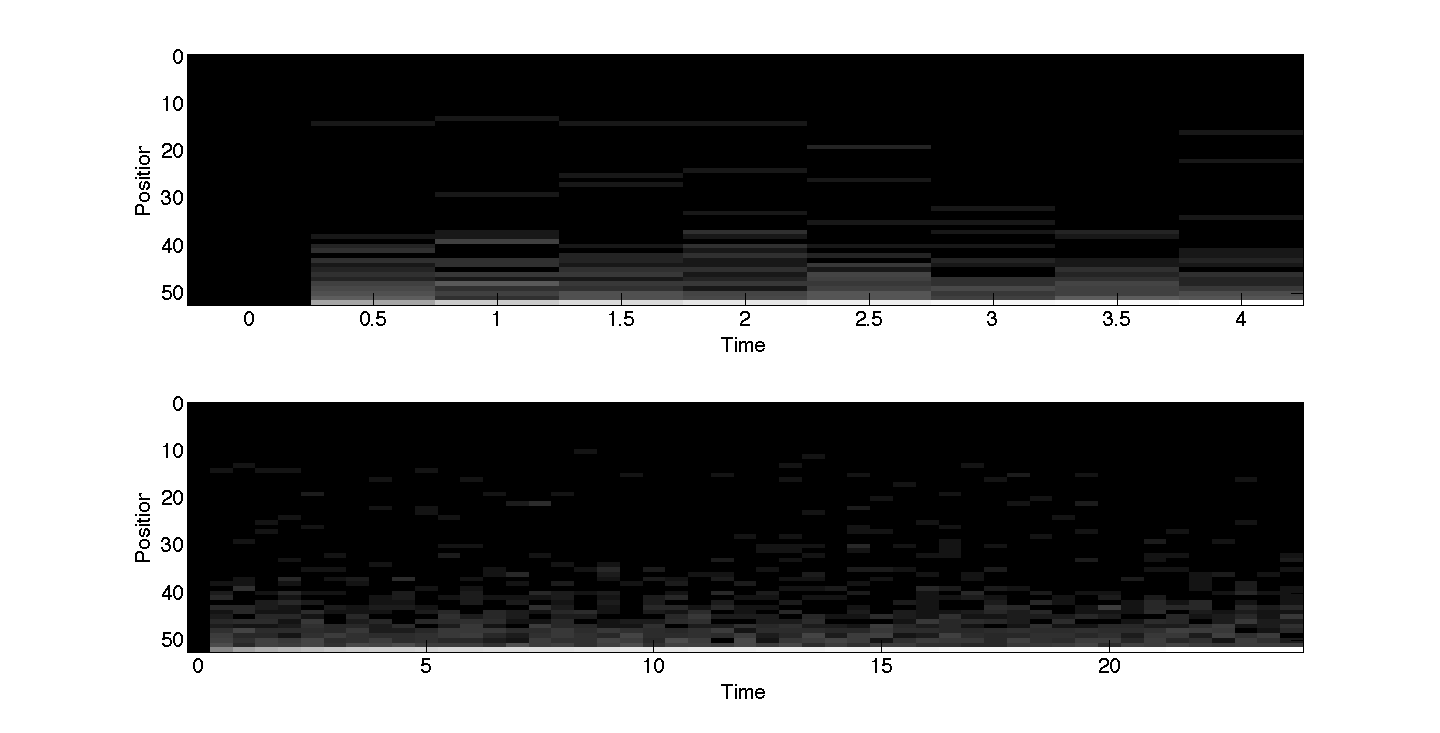
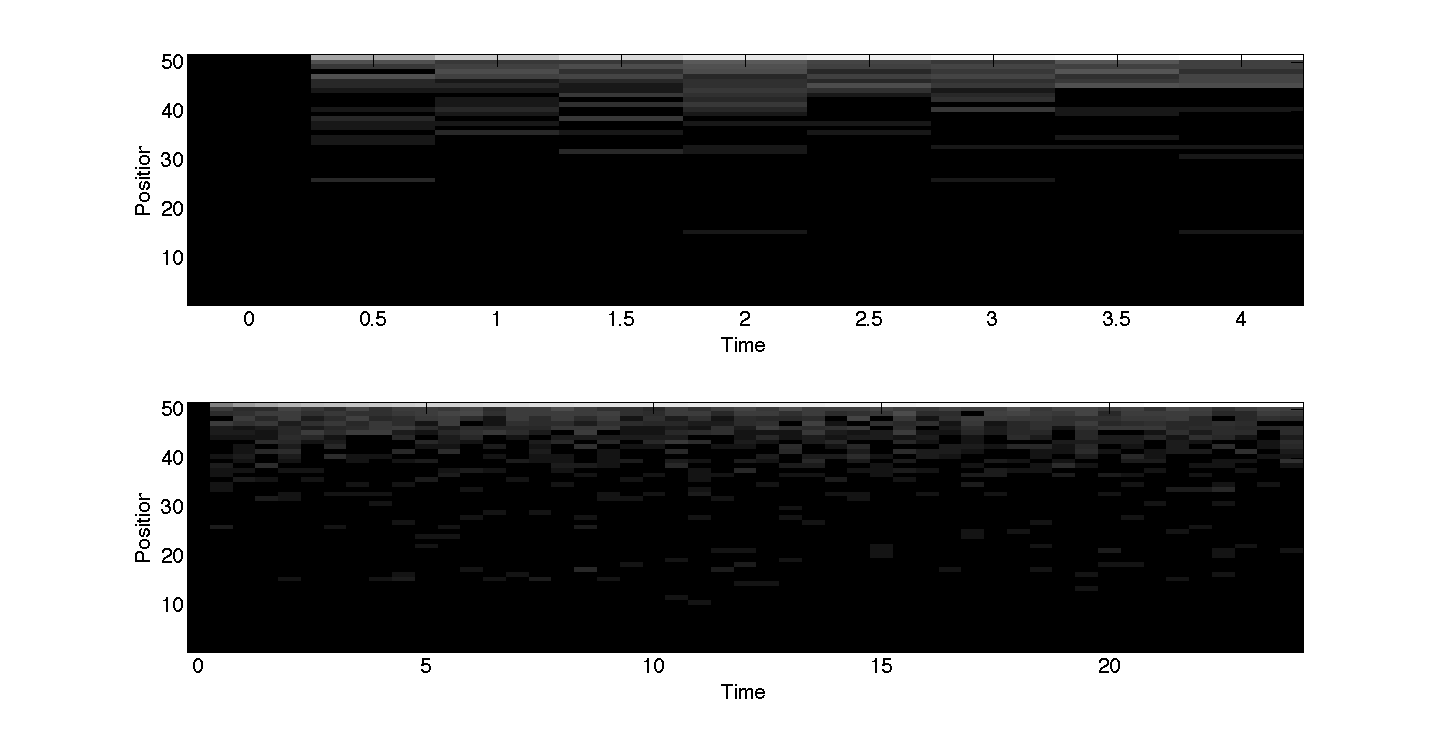
edited some figs and added script to output raw data in right form

diff --git a/output_raw_data_in_comparable_form.m b/output_raw_data_in_comparable_form.m
@@ -1,0 +1,27 @@
+function output_raw_data_in_comparable_form
+
+[q,x,y] = read_in_particle_coords(9,[10,10]);
+
+figure
+imagesc(1,0:52,log(q)) % plot whole time course
+colormap(gray)
+set(gca, 'fontsize', 20);
+set(gca,'XTick',25)
+yticklabels = 0:10:52;
+yticks = linspace(1, size(q, 1), numel(yticklabels));
+set(gca, 'YTick', yticks, 'YTickLabel', flipud(yticklabels(:)))
+xlabel('t=25')
+ylabel('Position')
+
+figure
+imagesc(1,0:52,(q)) % plot whole time course
+colormap(gray)
+set(gca, 'fontsize', 20);
+set(gca,'XTick',25)
+yticklabels = 0:10:52;
+yticks = linspace(1, size(q, 1), numel(yticklabels));
+set(gca, 'YTick', yticks, 'YTickLabel', flipud(yticklabels(:)))
+ xlabel('t=25')
+ ylabel('Position')
+
+

diff --git a/velocityjump2D_with_production.m b/velocityjump2D_with_production.m
@@ -28,7 +28,7 @@ if nargin ~= 5
     params.omega_1= 0.42;    %1/6*(num_modes>1); %rate of falling off the microtubule [zimyanin et al 2008] since average track length 2.4 - 2.8 microns -> average jump for 6s -> rate 1/6
     params.omega_2 = 0.84;
     params.phi = 0.58; %percentage of microtubules in posterior direction for biased angle distn [parton et al 2011]
-    params.gamma = 0.01; %rate of prouction from the nucleus
+    params.gamma = 0.08; %rate of prouction from the nucleus
     params.Lx = 52; %length of cell in x direction
     params.Ly = 37; %in y direction
     params.nuc_radius = 10; %radius of nucleus
